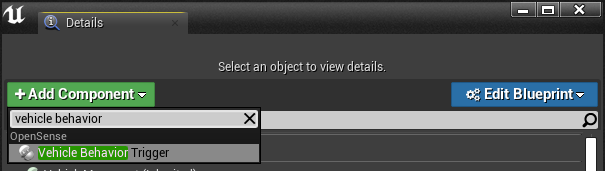
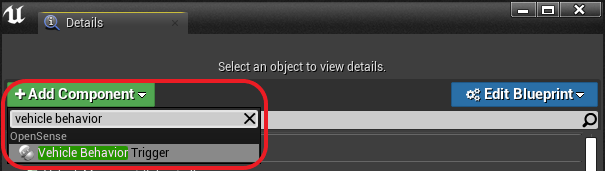
finished up trigger boxes

Changed region(s): [[0.0, 0.4386, 0.4463, 0.9942]]

diff --git a/docs/scenario_editor/trigger_boxes.md b/docs/scenario_editor/trigger_boxes.md
@@ -1,0 +1,71 @@
+# Vehicle Behavior Trigger Boxes
+
+Vehicle Behavior Trigger Boxes define specific actions or behaviors to happen 
+once that trigger box interacts with another vehicle or intersection in the scene. 
+The action can have an effect on the vehicle with the trigger box or the vehicle it is interacting 
+within the scene. 
+
+<div class="img_container">
+    <img class='md_img' src="../imgs/trigger_scene1.png"/>
+    <div class="space"></div>
+    <img class='md_img' src="../imgs/trigger_scene2.png"/>
+</div>
+
+
+## Adding a Trigger Box
+
+1. In the vehicle's "Details" window, click the "Add Component" button at the top and search for "Vehicle Behavior Trigger."
+  <div class="img_container">
+    <img class='lg_img' src="../imgs/trigger_details1.png"/>
+  </div>
+
+1. Select the "Vehicle Behavior Trigger" component from the list to attach it.
+
+1. Click on the `VehicleBehaviorTrigger` component in the vehicle's hierarchy in side of the "Details" window to bring up the settings for adding trigger boxes.
+
+1. To add a trigger box, select the plus icon next inside the "Trigger Boxes" Group.
+  <div class="img_container">
+    <img class='lg_img' src="../imgs/trigger_details2.png"/>
+  </div>
+
+1. Choose the desired settings for the vehicle or other vehicles behavior
+in relation to this vehicle.
+  <div class="img_container">
+    <img class='lg_img' src="../imgs/trigger_box4.png"/>
+  </div>
+
+## Vehicle Trigger Box Properties
+
+  - **Distance:** The distance forward or backward (+/-) from the vehicle to place the trigger box. 
+
+  - **Lane:** The number of lanes to shift the trigger box. 
+  Negative numbers indicate lanes to the left of the vehicle, and positive to the right. 
+
+  - **Scale:** How large the trigger box is.
+
+  - **Owner:** The description of the actions that this box will trigger on the owning vehicle.
+
+  - **Other:** "The description of the actions that this box will trigger on the other vehicle.
+
+## Vehicle Trigger Actions
+  - **Change Lane Left:** Triggers the vehicle to execute a lane change to the left lane if one is available. 
+
+  - **Change Lane Right:** Triggers the vehicle to execute a lane change to the right lane if one is available. 
+
+  - **Can Stay in Lane:** If selected and multiple lane change options are selected the vehicle may chose to stay in its lane. 
+
+  - **Next Turn Left:** Triggers the vehicle to take the leftmost lane at the next intersection or lane branch. 
+
+  - **Next Turn Right:** Triggers the vehicle to take the rightmost lane at the next intersection or lane branch.
+
+  - **Next Turn Center:** Triggers the vehicle to take the center most lane at the next intersection or lane branch. 
+
+  - **Number of Lanes to Change:** If a lane change is selected, the number of lanes the vehicle should try to change.
+
+  - **Speed Change:** The new speed the vehicle should set point to. Only takes effect if ShouldSpeedChange is set to true. (mph) 
+
+  - **Should Speed Change** Whether the speed change value should be used on vehicle.
+
+## Debug
+  - **Debug Draw:** A translucent box will appear where the trigger box is located 
+  as a debug visualization.

diff --git a/docs/scenario_editor/scenarios.md b/docs/scenario_editor/scenarios.md
@@ -131,35 +131,6 @@ set speed and initial speed will be a delta above or below the road's speed limi
 - **Trigger Sleep Time:** A vehicle might hit a dynamic trigger box more than once as they are in motion, to avoid double triggering, behavior can only be modified by the same trigger component again after this many seconds.
 
 
-## Vehicle Behavior Trigger Boxes
-
-1. In the vehicle's "Details" window, click the "Add Component" button at the top and search for "Vehicle Behavior Trigger."
-  <div class="img_container">
-    <img class='lg_img' src="../imgs/trigger_details1.png"/>
-  </div>
-
-1. Select the "Vehicle Behavior Trigger" component from the list to attach it.
-
-1. Click on the `VehicleBehaviorTrigger` component in the vehicle's hierarchy in side of the "Details" window to bring up the settings for adding trigger boxes.
-  <div class="img_container">
-    <img class='lg_img' src="../imgs/trigger_details2.png"/>
-  </div>
-
-1. To add a trigger box, select the plus icon next inside the "Trigger Boxes" Group.
-  <div class="img_container">
-    <img class='lg_img' src="../imgs/trigger_details3.png"/>
-  </div>
-
-1. Choose the desired settings for the vehicle or other vehicles behavior
-in relation to this vehicle.
-  <div class="img_container">
-    <img class='lg_img' src="../imgs/trigger_box4.png"/>
-  </div>
-
-1. Use "Debug Draw" to see the trigger box's physical location in the scene. 
-
-<!-- - **Distance** -->
-
 ## Tagging System
 
 The Simulator's tagging system is used to specific attributes for desired actors in a recording. The tags for each actor can be seen by clicking on the actor and scrolling down to the actor's "Actor" group and looking under the "Tags" array. 
